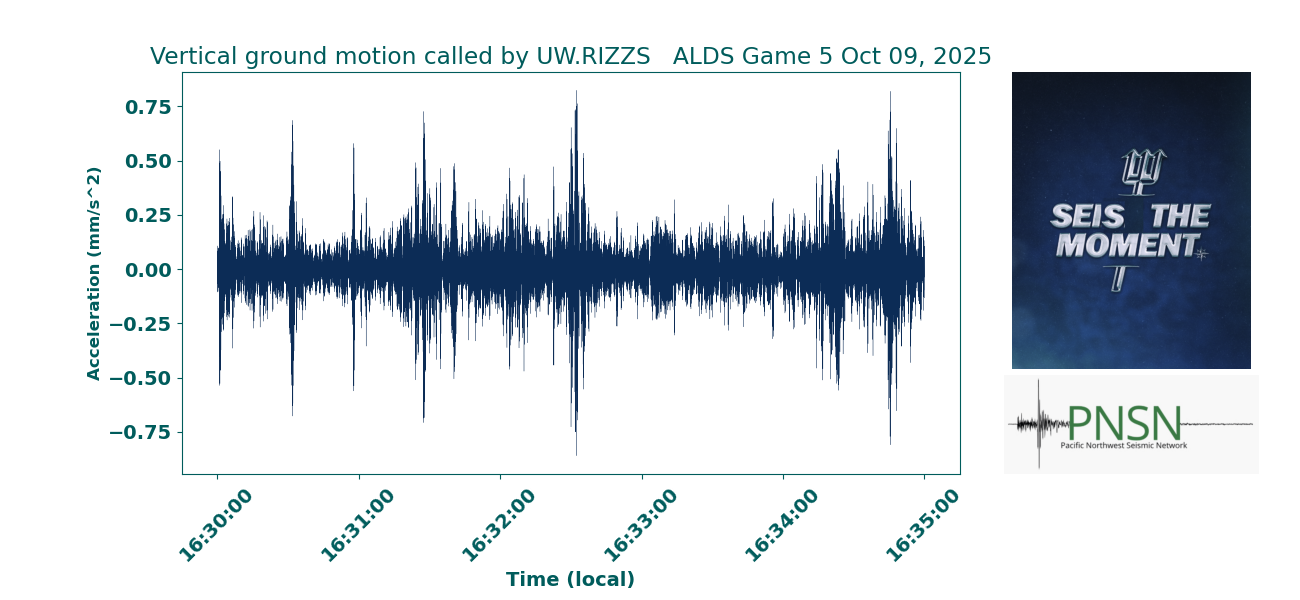
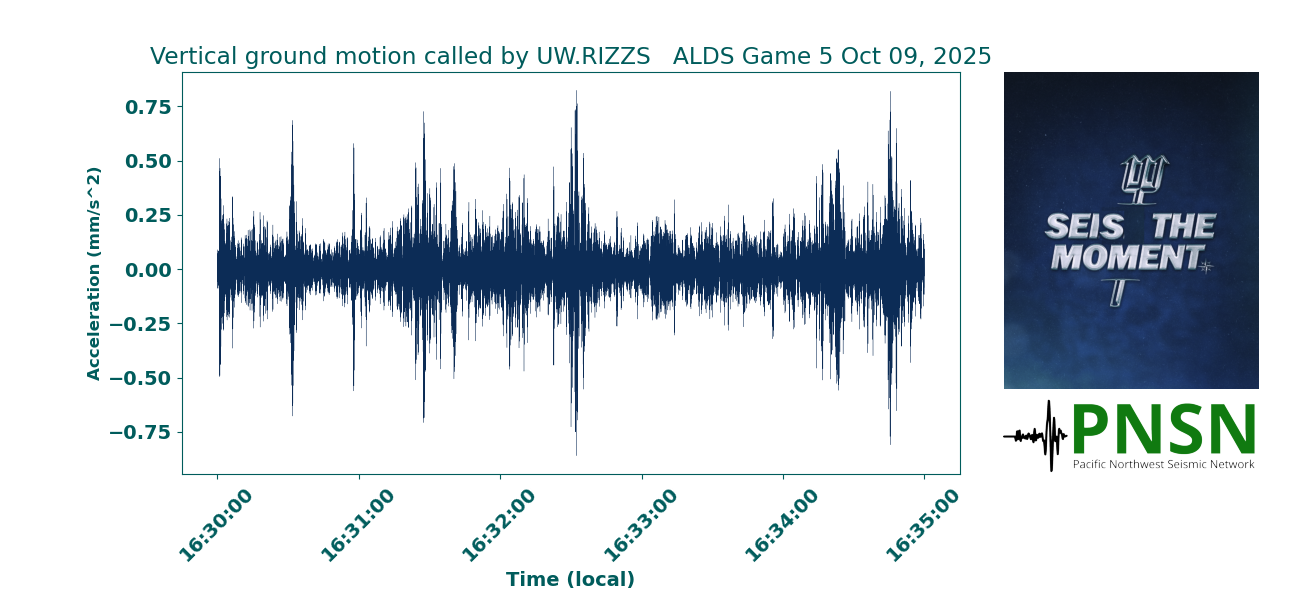
Added yaxis scaling option

Changed region(s): [[0.7692, 0.12, 0.9846, 0.78]]

diff --git a/MarinersQuake.py b/MarinersQuake.py
@@ -19,7 +19,10 @@ def normalize_rgb(r, g, b):
 network = "UW"
 station = "RIZZS"
 location = "--"
-channel = "HNN"
+channel = "HNZ"
+
+# Define the y-axis limits in mm/s^2. Default is None/auto-scale.
+#ylimits = 1.5
 
 # Define start and end times using local times 
 plot_start_time = datetime(2025, 10, 9, 16, 30, 0).astimezone(pytz.utc)
@@ -40,8 +43,10 @@ text_color = normalize_rgb(0,92,92)
 trace_linewidth = 0.2
 
 # Choose and load the PNSN logo
-#img2 = mpimg.imread("PNSNLogo_RGB_Main.png")
-img2 = mpimg.imread("PNSNWebpageLogo.jpg")
+PNSNlogo = "PNSNLogo_RGB_Main.png"
+#PNSNlogo = "PNSNWebpageLogo.jpg"
+img2 = mpimg.imread(PNSNlogo)
+img1 = mpimg.imread("SeisTheMoment.png")
 
 # Define padding (for processing, not for display) 
 padding = 5  # Calculate padding based on the lowest corner of the response removal filter
@@ -104,7 +109,9 @@ try:
     plt.rcParams['font.size'] = 14          # default font size
     plt.rcParams['font.weight'] = 'bold'    # default bold 
     fig = plt.figure(figsize=(13,6))
-    gs = gridspec.GridSpec(2, 2, width_ratios=[10,4], height_ratios=[4,1])
+    gs = gridspec.GridSpec(2, 2, width_ratios=[10,4], height_ratios=[3.2,1])
+    if PNSNlogo == "PNSNLogo_RGB_Main.png":
+        gs = gridspec.GridSpec(2, 2, width_ratios=[10,4], height_ratios=[4,1])
     gs.update(wspace=0.03, hspace=0.03)
 
     # Plot main seismogram
@@ -112,11 +119,11 @@ try:
     ax_plot.plot(fudged_local_times, data, '-', color=trace_color, linewidth=trace_linewidth)
 
     # Set title and labels
-    if channel == 'HNZ':
+    if channel.endswith('Z'):
         ax_plot.set_title(f'Vertical ground motion called by {network}.{station}   ALDS Game 5 {fudged_plot_start_time.strftime("%b %d, %Y")}', color=text_color) #, fontsize=12)
-    elif channel == 'HNN':
+    elif channel.endswith('N'):
         ax_plot.set_title(f'North-South ground motion called by {network}.{station}   ALDS Game 5 {fudged_plot_start_time.strftime("%b %d, %Y")}', color=text_color) #, fontsize=12)
-    elif channel == 'HNE':
+    else:
         ax_plot.set_title(f'East-West ground motion called by {network}.{station}   ALDS Game 5 {fudged_plot_start_time.strftime("%b %d, %Y")}', color=text_color) #, fontsize=12)
 
     ax_plot.set_xlabel('Time (local)', color=text_color, fontweight="bold")
@@ -144,6 +151,21 @@ try:
 
     # --- Adjust margins ---
     plt.subplots_adjust(left=0.14, right=0.99, bottom=0.21, wspace=0.03, hspace=0.03)
+
+    # Settle geometry, then freeze image axes
+    fig.canvas.draw()
+    pos1 = ax_img1.get_position()
+    pos2 = ax_img2.get_position()
+    ax_img1.set_position(pos1)
+    ax_img2.set_position(pos2)
+
+    # --- Adjust they-axis of seismogram if desired
+    try:
+        ax_plot.set_ylim([-1*ylimits,ylimits])
+    except:
+        pass
+
+    fig.canvas.draw_idle()
 
     # Save and display the plot
     plt.savefig("seismogram_" + network + "." + station + "." + channel + "_" + ground_motion_label + ".png")
